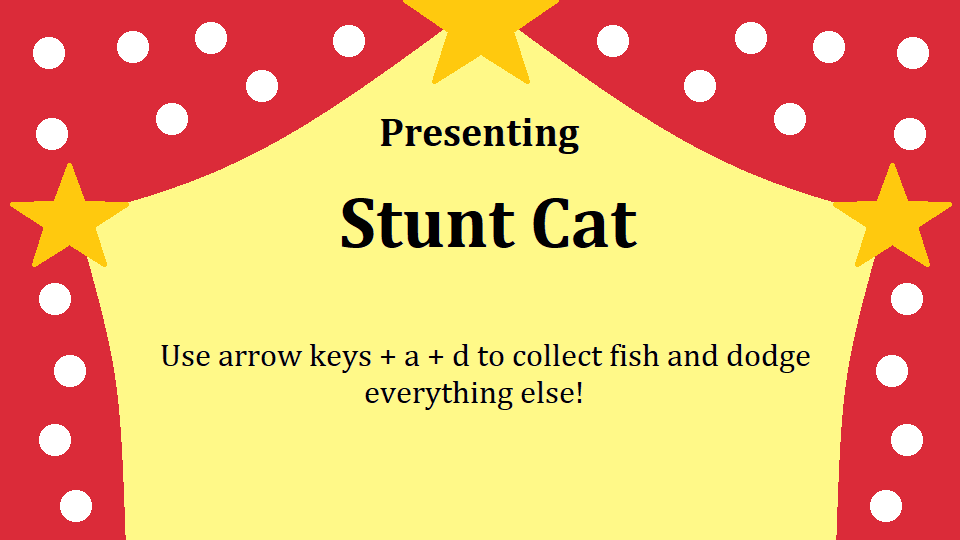
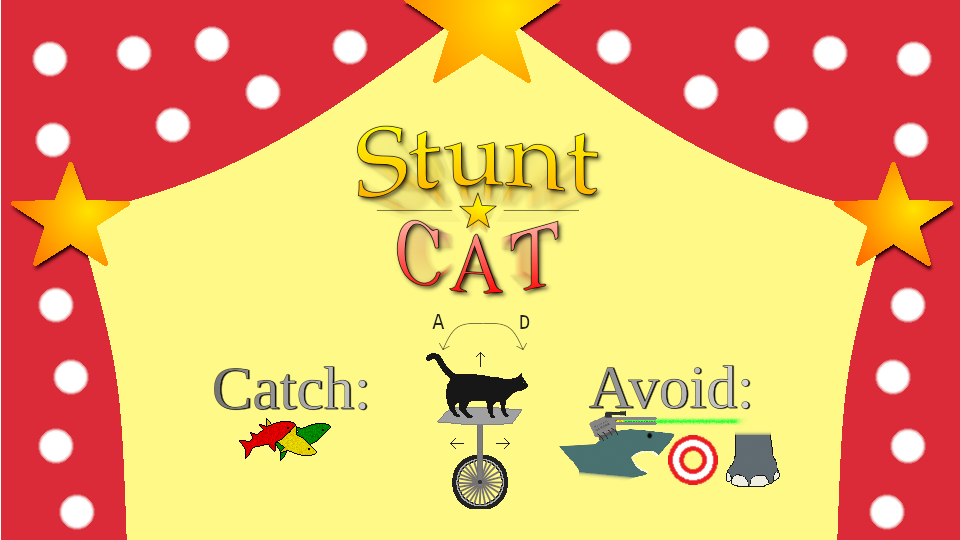
Improved the intro screen, and disabled the "elephant" because it doesn't quiet work.

diff --git a/stuntcat/scenes/cat3.py b/stuntcat/scenes/cat3.py
@@ -817,8 +817,10 @@ class CatUniScene(Scene):
             self.shark_active = True
 
         #TODO: to make it easier to test.
-        if self.score >= 20:
-            self.elephant_active = True
+
+        # Elephant doesn't work yet, so let's not use it
+#        if self.score >= 20:
+#            self.elephant_active = True
 
     def annoy_crowd(self):
         self.people_mad = True
